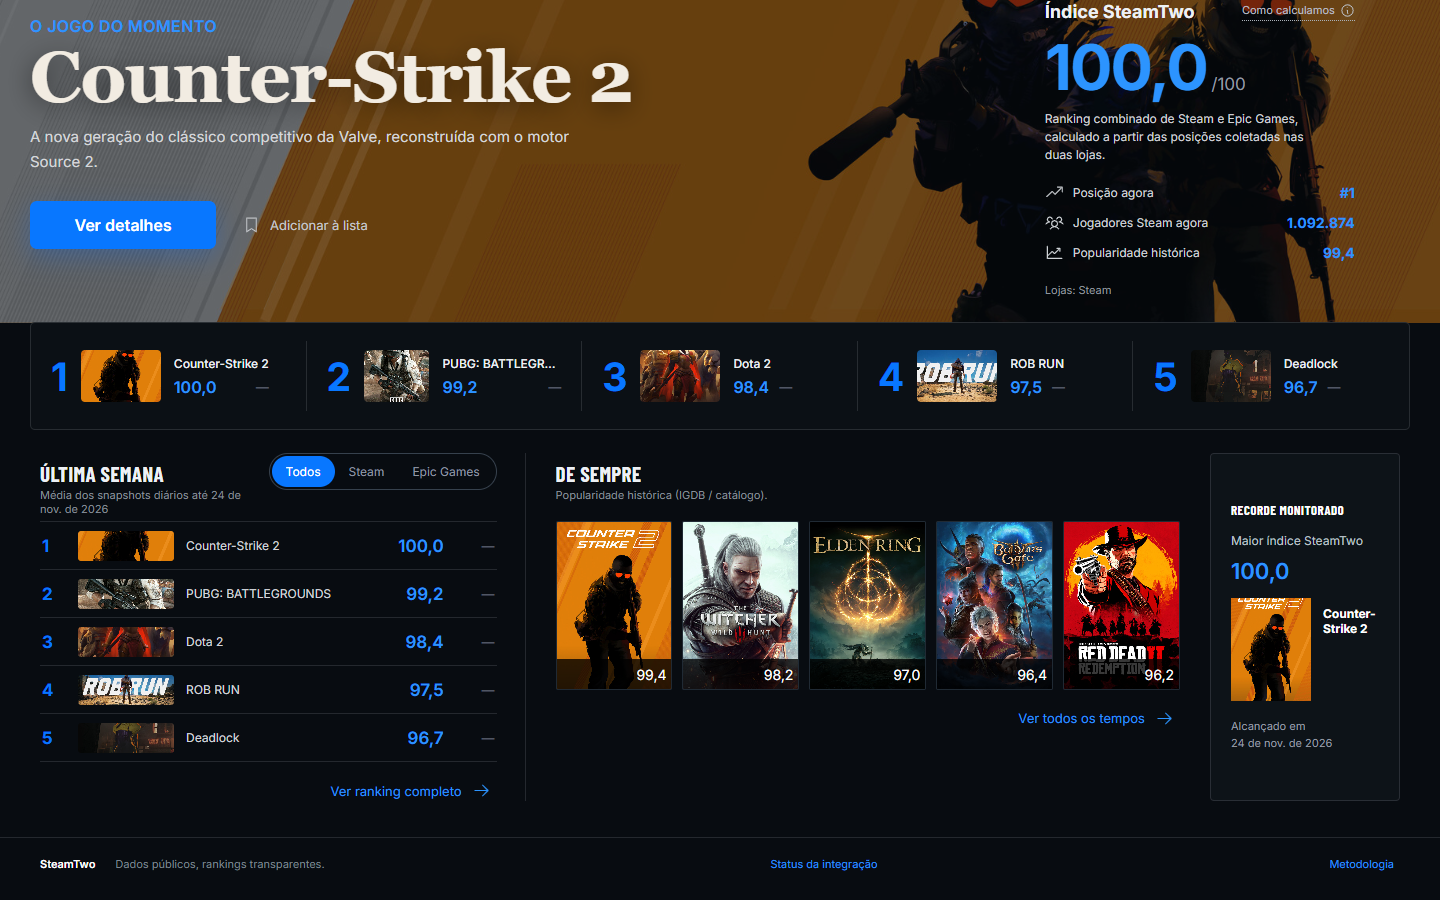
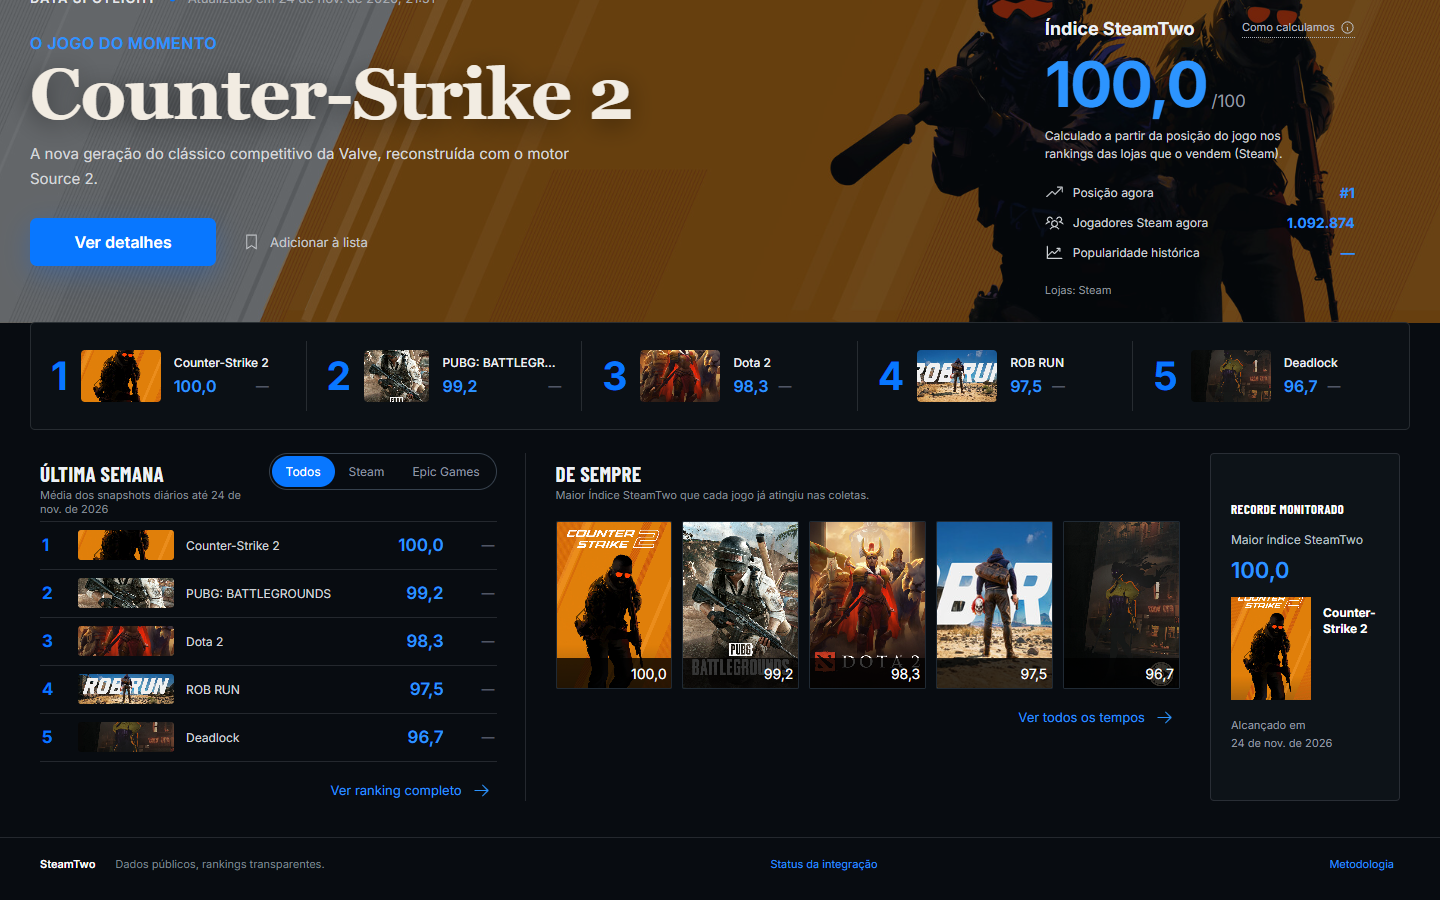
fix: correções da segunda avaliação independente
- lista pessoal: corrida real entre PUTs simultâneos (falso 409 "lista
  cheia" e possível estouro do limite) resolvida com pg_advisory_xact_lock
  por lista; teste com requisições paralelas;
- byte nulo em q/genre vira 400 (antes 500 no PostgreSQL) e JSON
  malformado responde em português;
- "De sempre" sem IGDB usa o pico monitorado do índice (dado real, todos os
  jogos); o seed não grava mais popularidade fictícia;
- catálogo Steam ignora apps que não são jogos; variação ancorada no último
  cálculo bem-sucedido; métrica da semana igual nos dois modos;
- docs: primeiro ciclo descrito corretamente, .env.example sem variáveis
  não usadas, Postgres publicado só em 127.0.0.1, nota no design-qa herdado,
  evidências atualizadas.

diff --git a/src/App.jsx b/src/App.jsx
@@ -191,7 +191,7 @@ function Hero({ game, updatedAt, onDetails, onMethodology, watchlist }) {
       <aside className="hero-score">
         <div className="score-heading"><h2>Índice SteamTwo</h2><button onClick={onMethodology}>Como calculamos <Info size={15} /></button></div>
         <div><Score value={game.score} large /> <span className="out-of">/100</span></div>
-        <p>Ranking combinado de Steam e Epic Games, calculado a partir das posições coletadas nas duas lojas.</p>
+        <p>Calculado a partir da posição do jogo nos rankings das lojas que o vendem ({storeKeys(game).map(storeLabel).join(" e ") || "—"}).</p>
         <div className="score-lines">
           <span><TrendUp size={19} /> Posição agora <b>#{game.rank ?? "—"}</b></span>
           <span><UsersThree size={19} /> Jogadores Steam agora <b>{formatNumber(game.metric?.type === "players" ? game.metric.value : game.currentPlayers)}</b></span>
@@ -261,7 +261,9 @@ function Home({ onDetails, onNavigate, onMethodology, watchlist, onMode }) {
           <button className="more-link" onClick={() => onNavigate("rankings")}>Ver ranking completo <ArrowRight size={19} /></button>
         </div>
         <div className="alltime-panel">
-          <div className="section-head"><div><h2>DE SEMPRE</h2><p>Popularidade histórica (IGDB / catálogo).</p></div></div>
+          <div className="section-head"><div><h2>DE SEMPRE</h2><p>{data.allTime[0]?.metric?.type === "peak"
+            ? "Maior Índice SteamTwo que cada jogo já atingiu nas coletas."
+            : "Popularidade histórica (IGDB)."}</p></div></div>
           <div className="poster-grid">
             {data.allTime.map((game) => (
               <button className="poster" key={game.id} onClick={() => onDetails(game)}>
@@ -361,7 +363,9 @@ function Rankings({ onDetails, initialPeriod = "now" }) {
   const { data, loading, error } = useApi(`/rankings${query({ period, store, page, limit: 15 })}`);
   const items = data?.items ?? [];
   const pagination = data?.pagination;
-  const metricLabel = period === "all-time" ? "Popularidade" : period === "week" ? "Dias válidos" : "Jogadores Steam";
+  const metricLabel = period === "all-time"
+    ? (items[0]?.metric?.type === "peak" ? "Pico do índice" : "Popularidade")
+    : period === "week" ? "Dias válidos" : "Jogadores Steam";
 
   return (
     <section className="rankings-page">
@@ -388,7 +392,7 @@ function Rankings({ onDetails, initialPeriod = "now" }) {
                   <strong>{game.rank}</strong>
                   <span><SafeImage src={game.coverUrl} alt="" /><b>{game.title}</b></span>
                   <Score value={game.score} />
-                  <span className="metric-cell">{game.metric?.type === "popularity" ? formatScore(game.metric.value) : formatNumber(game.metric?.value)}</span>
+                  <span className="metric-cell">{["popularity", "peak"].includes(game.metric?.type) ? formatScore(game.metric.value) : formatNumber(game.metric?.value)}</span>
                   <Trend value={game.trend} />
                 </button>
               ))}
@@ -525,13 +529,13 @@ function Status() {
         <>
           <h2 className="status-title">Últimas execuções dos jobs (tabela sync_runs)</h2>
           <div className="ranking-table runs-table" role="table">
-            <div className="table-head" role="row"><span>Job</span><span>Situação</span><span>Início</span><span>Registros / erro</span></div>
+            <div className="table-head" role="row"><span role="columnheader">Job</span><span role="columnheader">Situação</span><span role="columnheader">Início</span><span role="columnheader">Registros / erro</span></div>
             {data.lastRuns.map((run) => (
               <div className="table-row" role="row" key={run.job}>
-                <b>{run.job}</b>
-                <span className={`tone-${run.state === "success" ? "ok" : run.state === "failed" ? "bad" : "warn"}`}>{run.state}</span>
-                <span>{formatDate(run.startedAt, { withTime: true })}</span>
-                <span>{run.error ?? formatNumber(run.details?.records)}</span>
+                <b role="cell">{run.job}</b>
+                <span role="cell" className={`tone-${run.state === "success" ? "ok" : run.state === "failed" ? "bad" : "warn"}`}>{run.state}</span>
+                <span role="cell">{formatDate(run.startedAt, { withTime: true })}</span>
+                <span role="cell">{run.error ?? formatNumber(run.details?.records)}</span>
               </div>
             ))}
           </div>
@@ -562,7 +566,7 @@ function Methodology({ onClose }) {
         <div className="method-grid">
           <div><strong>01</strong><h3>Agora</h3><p>Último snapshot válido da Steam (jogadores simultâneos / mais jogados) e da Epic (mais jogados).</p></div>
           <div><strong>02</strong><h3>Semana</h3><p>Média dos snapshots diários válidos dos últimos sete dias.</p></div>
-          <div><strong>03</strong><h3>De sempre</h3><p>Popularidade histórica (IGDB ou catálogo inicial). Não representa horas jogadas.</p></div>
+          <div><strong>03</strong><h3>De sempre</h3><p>Popularidade histórica da IGDB, quando configurada; sem ela, o maior índice que cada jogo já atingiu nas coletas.</p></div>
         </div>
         <small className="method-foot">Fontes: Steam Charts, Epic Games Store (com fallback egdata) e IGDB.</small>
       </section>

diff --git a/tests/db/postgres.integration.test.js b/tests/db/postgres.integration.test.js
@@ -63,6 +63,13 @@ describe.skipIf(!testDatabaseUrl)("PostgreSQL — integração completa", () => 
       (SELECT array_agg(ge.name) FROM game_genres gg JOIN genres ge ON ge.id = gg.genre_id WHERE gg.game_id = g.id) AS genres
       FROM games g WHERE slug = 'portal-2'`);
     expect(game.rows[0]).toEqual({ pop: 12.5, genres: ["Quebra-cabeça"] });
+    // Restaura: os testes seguintes validam o "De sempre" sem IGDB (pico monitorado).
+    await pool.query("UPDATE games SET igdb_id = NULL, igdb_popularity = NULL WHERE slug = 'portal-2'");
+  });
+
+  it("seed não grava popularidade fictícia do catálogo de exemplo", async () => {
+    const { rows } = await pool.query("SELECT count(*)::int AS total FROM games WHERE igdb_popularity IS NOT NULL");
+    expect(rows[0].total).toBe(0);
   });
 
   it("coleta grava snapshots, vincula a Epic pelo título e registra o sync_run com sucesso", async () => {
@@ -113,8 +120,11 @@ describe.skipIf(!testDatabaseUrl)("PostgreSQL — integração completa", () => 
     expect(rows.find((row) => row.slug === "elden-ring").score).toBeCloseTo(75);
     // Cyberpunk: vendido nas duas; 4º de 4 na Steam (25) e 2º de 2 na Epic (50) → 37,5.
     expect(rows.find((row) => row.slug === "cyberpunk-2077").score).toBeCloseTo(37.5);
-    const allTime = await pool.query("SELECT count(*)::int AS total FROM game_rankings WHERE period = 'all-time'");
-    expect(allTime.rows[0].total).toBe(10);
+    // Sem IGDB, "De sempre" = maior índice que cada jogo já atingiu nas coletas (dado real).
+    const allTime = await pool.query(`SELECT g.slug, r.score::float AS score, r.source FROM game_rankings r
+      JOIN games g ON g.id = r.game_id WHERE r.period = 'all-time' ORDER BY r.rank`);
+    expect(allTime.rows.map((row) => row.slug)).toEqual(["counter-strike-2", "elden-ring", "cyberpunk-2077"]);
+    expect(allTime.rows[0]).toMatchObject({ score: 100, source: "steamtwo-peak" });
   });
 
   it("advisory lock real impede dois jobs iguais ao mesmo tempo", async () => {
@@ -190,6 +200,32 @@ describe.skipIf(!testDatabaseUrl)("PostgreSQL — integração completa", () => 
     await request(app).delete("/api/list/portal-2").set("X-List-Id", LIST_ID).expect(404);
     await request(app).put("/api/list/jogo-que-nao-existe").set("X-List-Id", LIST_ID).expect(404);
     await request(app).get("/api/list").set("X-List-Id", "nao-e-uuid").expect(400);
+  });
+
+  it("PUTs simultâneos na mesma lista nunca geram falso 'lista cheia' nem estouram o limite", async () => {
+    const raceList = "bbbbbbbb-cccc-4ddd-8eee-ffffffffffff";
+    // 10 rodadas de 8 requisições iguais em paralelo: exatamente um 201 por rodada, o resto 200.
+    for (let round = 0; round < 10; round += 1) {
+      await pool.query("DELETE FROM watchlist_items WHERE list_id = $1", [raceList]);
+      const statuses = await Promise.all(Array.from({ length: 8 }, () =>
+        request(app).put("/api/list/elden-ring").set("X-List-Id", raceList).then((res) => res.status)));
+      expect(statuses.filter((s) => s === 201)).toHaveLength(1);
+      expect(statuses.filter((s) => s === 200)).toHaveLength(7);
+    }
+    // Jogos diferentes em paralelo com limite 3: exatamente 3 entram.
+    await pool.query("DELETE FROM watchlist_items WHERE list_id = $1", [raceList]);
+    const repository = createCatalogReadRepository(pool);
+    const slugs = (await pool.query("SELECT slug FROM games ORDER BY slug LIMIT 8")).rows.map((row) => row.slug);
+    const outcomes = await Promise.all(slugs.map((slug) => repository.watchlist.add(raceList, slug, 3)));
+    expect(outcomes.filter((o) => o === "added")).toHaveLength(3);
+    expect(outcomes.filter((o) => o === "full")).toHaveLength(5);
+    const { rows } = await pool.query("SELECT count(*)::int AS total FROM watchlist_items WHERE list_id = $1", [raceList]);
+    expect(rows[0].total).toBe(3);
+  });
+
+  it("byte nulo na busca é rejeitado com 400 (não chega ao banco)", async () => {
+    await request(app).get("/api/games").query({ q: "a\u0000b" }).expect(400);
+    await request(app).get("/api/games").query({ genre: "\u0000" }).expect(400);
   });
 
   it("lista cheia responde 409, mas re-adicionar um item que já está nela não é erro", async () => {

diff --git a/server/db/catalog-read-repository.js b/server/db/catalog-read-repository.js
@@ -1,3 +1,5 @@
+import { withTransaction } from "./pool.js";
+
 /**
  * Consultas de leitura da API. Filtros, ordenação e paginação acontecem no
  * PostgreSQL (antes o serviço carregava o catálogo inteiro e filtrava em memória).
@@ -102,7 +104,9 @@ export function createCatalogReadRepository(pool) {
         score: Number(Number(row.score ?? 0).toFixed(1)),
         trend: Number(row.trend ?? 0),
         metric: period === "all-time"
-          ? { type: "popularity", value: toNumber(row.metric), label: "Popularidade histórica" }
+          ? row.source === "igdb"
+            ? { type: "popularity", value: toNumber(row.metric), label: "Popularidade histórica (IGDB)" }
+            : { type: "peak", value: toNumber(row.metric), label: "Maior índice já registrado" }
           : period === "week"
             ? { type: "days", value: toNumber(row.metric), label: "Dias válidos na semana" }
             : { type: "players", value: toNumber(row.currentPlayers), label: "Jogadores Steam" },
@@ -219,27 +223,26 @@ export function createCatalogReadRepository(pool) {
         return result.rows[0].total;
       },
       /**
-       * Uma única instrução decide o resultado (sem corrida entre contar e inserir):
-       * "not-found" | "exists" (idempotente) | "full" (limite atingido) | "added".
+       * Resultado: "not-found" | "exists" (idempotente) | "full" (limite) | "added".
+       * Requisições concorrentes para a MESMA lista são serializadas por um advisory
+       * lock de transação (pg_advisory_xact_lock): a contagem, a verificação de
+       * duplicata e o INSERT enxergam o estado já confirmado pela requisição anterior.
+       * Uma única instrução com CTE não basta — no READ COMMITTED, dois PUTs simultâneos
+       * veriam a lista "sem o jogo" e o perdedor do ON CONFLICT viraria um falso "cheia".
        */
       async add(listId, slug, limit) {
-        const result = await pool.query(`
-          WITH game AS (SELECT id FROM games WHERE slug = $2),
-          existing AS (SELECT 1 FROM watchlist_items w JOIN game ON w.game_id = game.id WHERE w.list_id = $1),
-          total AS (SELECT count(*) AS n FROM watchlist_items WHERE list_id = $1),
-          inserted AS (
-            INSERT INTO watchlist_items (list_id, game_id)
-            SELECT $1, game.id FROM game, total
-            WHERE NOT EXISTS (SELECT 1 FROM existing) AND total.n < $3
-            ON CONFLICT (list_id, game_id) DO NOTHING
-            RETURNING game_id
-          )
-          SELECT EXISTS (SELECT 1 FROM game) AS found, EXISTS (SELECT 1 FROM existing) AS already,
-            EXISTS (SELECT 1 FROM inserted) AS added`, [listId, slug, limit]);
-        const { found, already, added } = result.rows[0];
-        if (!found) return "not-found";
-        if (already) return "exists";
-        return added ? "added" : "full";
+        return withTransaction(pool, async (client) => {
+          await client.query("SELECT pg_advisory_xact_lock(hashtext('steamtwo:watchlist:' || $1))", [listId]);
+          const game = await client.query("SELECT id FROM games WHERE slug = $1", [slug]);
+          if (!game.rows[0]) return "not-found";
+          const state = await client.query(`SELECT
+              EXISTS (SELECT 1 FROM watchlist_items WHERE list_id = $1 AND game_id = $2) AS already,
+              (SELECT count(*) FROM watchlist_items WHERE list_id = $1)::int AS total`, [listId, game.rows[0].id]);
+          if (state.rows[0].already) return "exists";
+          if (state.rows[0].total >= limit) return "full";
+          await client.query("INSERT INTO watchlist_items (list_id, game_id) VALUES ($1, $2)", [listId, game.rows[0].id]);
+          return "added";
+        });
       },
       async remove(listId, slug) {
         const result = await pool.query(`DELETE FROM watchlist_items w USING games g

diff --git a/server/db/job-repository.js b/server/db/job-repository.js
@@ -268,10 +268,21 @@ export async function createJobRepository({ databaseUrl, pool: suppliedPool } = 
       });
     },
 
+    /** Popularidade histórica vinda de fato da IGDB (jogos com igdb_id). */
     async loadAllTimeCandidates() {
       return enqueue(async (client) => {
-        const result = await client.query(`SELECT id, igdb_popularity AS "igdbPopularity" FROM games WHERE igdb_popularity IS NOT NULL`);
+        const result = await client.query(`SELECT id, igdb_popularity AS "igdbPopularity" FROM games
+          WHERE igdb_id IS NOT NULL AND igdb_popularity IS NOT NULL`);
         return result.rows.map((row) => ({ id: row.id, igdbPopularity: Number(row.igdbPopularity) }));
+      });
+    },
+
+    /** Maior Índice SteamTwo ("agora", todas as lojas) já registrado para cada jogo. */
+    async loadPeakScores() {
+      return enqueue(async (client) => {
+        const result = await client.query(`SELECT game_id AS "gameId", max(score)::float AS score
+          FROM game_rankings WHERE period = 'now' AND store = 'all' AND score IS NOT NULL GROUP BY game_id`);
+        return result.rows;
       });
     },
 
@@ -281,7 +292,11 @@ export async function createJobRepository({ databaseUrl, pool: suppliedPool } = 
         const result = await client.query(`
           SELECT game_id AS "gameId", rank FROM game_rankings
           WHERE period = $1 AND store = $2
-            AND as_of = (SELECT max(as_of) FROM game_rankings WHERE period = $1 AND store = $2 AND as_of < $3)`,
+            -- Ancorado no último cálculo concluído com sucesso (um job que falhou no meio
+            -- pode ter gravado só parte dos rankings).
+            AND as_of = COALESCE(
+              (SELECT max(started_at) FROM sync_runs WHERE job = 'scores' AND state = 'success' AND started_at < $3),
+              (SELECT max(as_of) FROM game_rankings WHERE period = $1 AND store = $2 AND as_of < $3))`,
         [period, store, before]);
         return new Map(result.rows.map((row) => [row.gameId, row.rank]));
       });

diff --git a/server/services/catalog-service.js b/server/services/catalog-service.js
@@ -14,15 +14,18 @@ const storeMatches = (game, store) =>
 
 const pagination = (page, limit, total) => ({ page, limit, total, pages: Math.ceil(total / limit) });
 
-function rankingView(game, index, field = "score") {
+function rankingView(game, index, field = "score", period = "now") {
   return {
     ...game,
     rank: index + 1,
     score: Number(game[field].toFixed(1)),
+    // Mesmo formato de métrica do modo banco para cada período.
     metric:
       field === "historicalPopularity"
         ? { type: "popularity", value: game[field], label: "Popularidade histórica" }
-        : { type: "players", value: game.currentPlayers, label: "Jogadores Steam" },
+        : period === "week"
+          ? { type: "days", value: null, label: "Dias válidos na semana" }
+          : { type: "players", value: game.currentPlayers, label: "Jogadores Steam" },
     source: field === "historicalPopularity" ? "igdb" : "steamtwo",
     updatedAt: mockUpdatedAt,
   };
@@ -70,7 +73,7 @@ function createDemoCatalogService({ games = mockGames } = {}) {
     async rankings({ period = "now", store = "all", page = 1, limit = 20 } = {}) {
       const filtered = (await listGames()).filter((game) => storeMatches(game, store));
       const field = period === "all-time" ? "historicalPopularity" : "score";
-      const ranked = [...filtered].sort((a, b) => b[field] - a[field]).map((game, index) => rankingView(game, index, field));
+      const ranked = [...filtered].sort((a, b) => b[field] - a[field]).map((game, index) => rankingView(game, index, field, period));
       const start = (page - 1) * limit;
       return {
         items: ranked.slice(start, start + limit),

diff --git a/tests/integrations/new-jobs.test.js b/tests/integrations/new-jobs.test.js
@@ -78,8 +78,20 @@ describe("catálogo automático pela loja Steam", () => {
     expect(game).not.toHaveProperty("headerUrl");
   });
 
-  it("ignora apps sem dados na loja", () => {
+  it("ignora apps sem dados na loja e softwares que não são jogos", () => {
     expect(normalizeSteamAppDetails(1, { 1: { success: false } })).toBeNull();
+    expect(normalizeSteamAppDetails(2, { 2: { success: true, data: { name: "Crosshair X", type: "application" } } })).toBeNull();
+  });
+
+  it("sem IGDB, 'De sempre' usa o pico monitorado do índice", async () => {
+    const repo = repository({
+      loadAllTimeCandidates: vi.fn(async () => []),
+      loadPeakScores: vi.fn(async () => [{ gameId: "a", score: 60 }, { gameId: "b", score: 98 }]),
+    });
+    await syncScores({ repository: repo, now: clock });
+    const allTime = repo.replaceRankings.mock.calls.at(-1)[0];
+    expect(allTime.period).toBe("all-time");
+    expect(allTime.entries.map(({ gameId, rank, source }) => [gameId, rank, source])).toEqual([["b", 1, "steamtwo-peak"], ["a", 2, "steamtwo-peak"]]);
   });
 
   it("busca detalhes só dos apps do top que ainda não estão no catálogo", async () => {

diff --git a/server/jobs/scores.js b/server/jobs/scores.js
@@ -62,8 +62,15 @@ export async function syncScores({ repository, now } = {}) {
         counts[store] = { now: current.length, week: week.length };
       }
 
-      // "De sempre" depende da popularidade histórica (IGDB/seed) e não de loja.
-      const allTime = createAllTimeRanking(allTimeGames);
+      // "De sempre": popularidade histórica da IGDB quando configurada; sem ela, o pico
+      // monitorado — o maior Índice SteamTwo que cada jogo já atingiu nas coletas
+      // (lido depois de gravar o "agora" deste cálculo, então já inclui a coleta atual).
+      let allTime = createAllTimeRanking(allTimeGames);
+      if (!allTime.length && repository.loadPeakScores) {
+        allTime = (await repository.loadPeakScores())
+          .sort((a, b) => b.score - a.score || a.gameId.localeCompare(b.gameId))
+          .map((item, index) => ({ gameId: item.gameId, score: item.score, metric: item.score, rank: index + 1, source: "steamtwo-peak" }));
+      }
       await repository.replaceRankings({
         period: "all-time", store: "all", asOf: capturedAt,
         entries: allTime.slice(0, MAX_POSITIONS).map((item) => ({ ...item, trend: 0 })),

diff --git a/server/routes/index.js b/server/routes/index.js
@@ -11,6 +11,9 @@ const pageSchema = z.coerce.number().int().min(1).max(1000).default(1);
 const limitSchema = z.coerce.number().int().min(1).max(100).default(20);
 const slugSchema = z.string().max(120).regex(/^[a-z0-9-]+$/, "slug inválido");
 const listIdSchema = z.string().uuid("Cabeçalho X-List-Id deve ser um UUID");
+// Texto livre do usuário: o PostgreSQL rejeita o byte nulo (0x00) em UTF-8, então ele é
+// barrado na validação (400) em vez de virar erro 500 no banco.
+const textSchema = (max) => z.string().max(max).refine((text) => !text.includes("\u0000"), "caractere inválido (byte nulo)");
 
 const methodology = {
   name: "Índice SteamTwo",
@@ -65,8 +68,8 @@ export function createApiRouter({ catalogService = createCatalogService(), healt
 
   router.get("/games", handle(async (request, response) => {
     const query = z.object({
-      q: z.string().max(100).default(""),
-      genre: z.string().max(60).optional(),
+      q: textSchema(100).default(""),
+      genre: textSchema(60).optional(),
       store: storeSchema,
       sort: z.enum(["popularity", "name"]).default("popularity"),
       page: pageSchema,

diff --git a/tests/api/watchlist-and-validation.test.js b/tests/api/watchlist-and-validation.test.js
@@ -53,6 +53,13 @@ describe("validação e novas rotas", () => {
     expect(slug.body.details[0]).toEqual({ campo: "slug", mensagem: "slug inválido" });
   });
 
+  it("byte nulo e JSON malformado respondem 400 em português", async () => {
+    await request(freshApp()).get("/api/games").query({ q: "x\u0000" }).expect(400);
+    const json = await request(freshApp()).put("/api/list/portal-2").set("X-List-Id", LIST_ID)
+      .set("Content-Type", "application/json").send("{ruim").expect(400);
+    expect(json.body.error).toBe("JSON inválido no corpo da requisição");
+  });
+
   it("rota inexistente da API responde 404 em JSON", async () => {
     const response = await request(freshApp()).get("/api/nao-existe").expect(404);
     expect(response.body.error).toBe("Rota não encontrada");

diff --git a/server/app.js b/server/app.js
@@ -24,7 +24,8 @@ export function createApp({ apiRouter, staticDir } = {}) {
     response.status(status).json({
       error: status >= 500 && status !== 503
         ? "Erro interno do servidor"
-        : isValidationError ? "Parâmetros inválidos" : error.message,
+        : isValidationError ? "Parâmetros inválidos"
+          : isJsonError ? "JSON inválido no corpo da requisição" : error.message,
       ...(isValidationError ? { details: error.issues.map(({ path, message }) => ({ campo: path.join("."), mensagem: message })) } : {}),
     });
   });

diff --git a/server/db/seed.js b/server/db/seed.js
@@ -21,7 +21,8 @@ export function seedCatalog(games = mockGames) {
     coverUrl: game.coverUrl,
     heroUrl: game.heroUrl,
     releaseDate: game.releaseDate,
-    popularity: game.historicalPopularity,
+    // Sem popularidade: o valor do catálogo de exemplo é fictício e não pode aparecer
+    // como dado real no banco ("De sempre" usa IGDB ou o pico monitorado).
     genres: game.genres.map((name) => ({ name })),
     stores: game.stores
       .map((listing) => listing.store === "steam"

diff --git a/server/integrations/steam-store-client.js b/server/integrations/steam-store-client.js
@@ -18,6 +18,8 @@ export function normalizeSteamAppDetails(appId, payload) {
   const entry = payload?.[String(appId)];
   if (!entry?.success || !entry.data?.name) return null;
   const { data } = entry;
+  // O top da Steam inclui softwares (ex.: utilitários de mira); o catálogo é só de jogos.
+  if (data.type && data.type !== "game") return null;
   const title = stripHtml(data.name);
   return {
     source: "steam",
